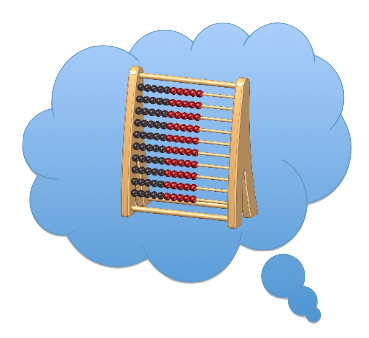
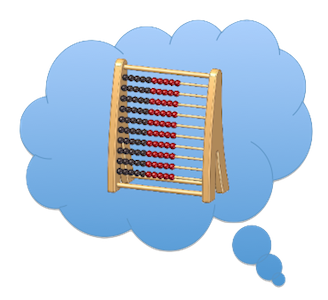
new size for thoughts, different conveter syntax

Changed region(s): [[0.3963, 0.24, 0.5488, 0.6], [0.3963, 0.24, 0.4573, 0.33], [0.5793, 0.6, 0.6098, 0.63]]

diff --git a/lib/assets/roman_numeral_evaluator.rb b/lib/assets/roman_numeral_evaluator.rb
@@ -1,25 +1,24 @@
-class RomanNumeralEvaluator
+module RomanNumeralEvaluator
+  
+  VALID_NUMERICAL_PATTERN = /(M{1,4}(CM|CD|D?C{0,3})(XC|XL|L?X{0,3})(IX|IV|V?I{0,3})|M{0,4}(CM|C?D|D?C{1,3})(XC|XL|L?X{0,3})(IX|IV|V?I{0,3})|M{0,4}(CM|CD|D?C{0,3})(XC|X?L|L?X{1,3})(IX|IV|V?I{0,3})|M{0,4}(CM|CD|D?C{0,3})(XC|XL|L?X{0,3})(IX|I?V|V?I{1,3}))/
     
   # problem is a string representing a Roman math problem, such as 'I + I'. Returns roman result, as a string, such as 'II'
-  def solve(problem)
+  def self.solve(problem)
     to_roman(solve_as_integer(problem.upcase))
   end
   
   # Takes 'I + I', returns 2.  Recursively replaces a first Roman numeral in a string with decimal.
-  def solve_as_integer(problem)
+  def self.solve_as_integer(problem)
     # replaces strings in problem with corresponding integers, eval result
-    valid_numeral_pattern = /(M{1,4}(CM|CD|D?C{0,3})(XC|XL|L?X{0,3})(IX|IV|V?I{0,3})|M{0,4}(CM|C?D|D?C{1,3})(XC|XL|L?X{0,3})(IX|IV|V?I{0,3})|M{0,4}(CM|CD|D?C{0,3})(XC|X?L|L?X{1,3})(IX|IV|V?I{0,3})|M{0,4}(CM|CD|D?C{0,3})(XC|XL|L?X{0,3})(IX|I?V|V?I{1,3}))/
      
-    if problem.match(valid_numeral_pattern)
+    if problem.match(VALID_NUMERICAL_PATTERN)
       # There are roman characters.  Replace the first word, solve the result.
-      solve_as_integer(problem.sub(valid_numeral_pattern){ |n| to_decimal(n) })
+      solve_as_integer(problem.sub(VALID_NUMERICAL_PATTERN){ |n| to_decimal(n) })
     else
       # Base Case:  There are no roman characters in problem.  We're done. Return the evaluated result.
       eval(problem)
     end
   end
-  
-  private
   
   DIGITS = {
     1    => 'I',
@@ -37,7 +36,7 @@ class RomanNumeralEvaluator
     1000 => 'M'
   }
   
-  def to_roman(value)
+  def self.to_roman(value)
     result = ''
     DIGITS.keys.reverse.each do |decimal|
       while value >= decimal
@@ -48,8 +47,7 @@ class RomanNumeralEvaluator
     result
   end
   
-  def to_decimal(value)
-    value.upcase!
+  def self.to_decimal(value)
     result = 0
     DIGITS.values.reverse.each do |roman|
       while value.start_with? roman
@@ -58,6 +56,10 @@ class RomanNumeralEvaluator
       end
     end
     result
+  end
+  
+  def self.is_roman?(value)
+    value.match(VALID_NUMERICAL_PATTERN)
   end
   
 end

diff --git a/app/controllers/calculator_controller.rb b/app/controllers/calculator_controller.rb
@@ -9,11 +9,10 @@ class CalculatorController < ApplicationController
     puts "IN ARABC IS BELOW"
     puts params[:in_arabic]
     sleep 1
-    evaluator = RomanNumeralEvaluator.new
     @problem = params[:problem]
     
     # solution is arabic when in_arabic is true
-    @solution = params[:in_arabic] == 'true' ? evaluator.solve_as_integer(params[:problem]).to_s : evaluator.solve(params[:problem]).to_s
+    @solution = params[:in_arabic] == 'true' ? RomanNumeralEvaluator.solve_as_integer(params[:problem]).to_s : RomanNumeralEvaluator.solve(params[:problem]).to_s
     
     render json: { problem: @problem, solution: @solution }
   end
